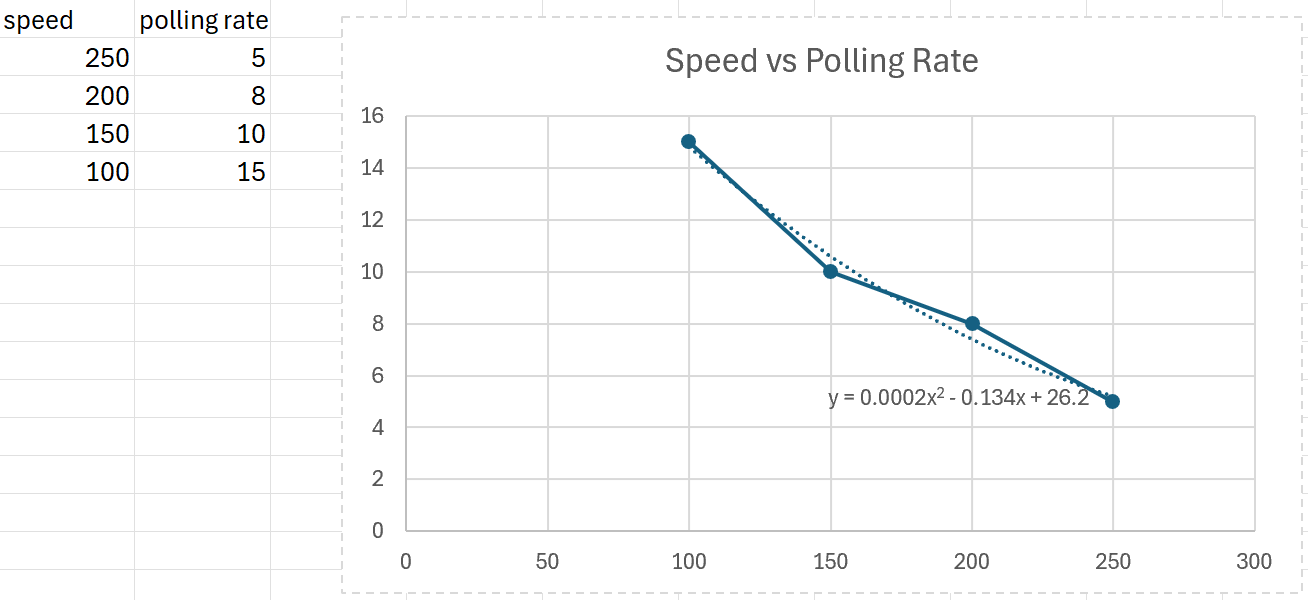
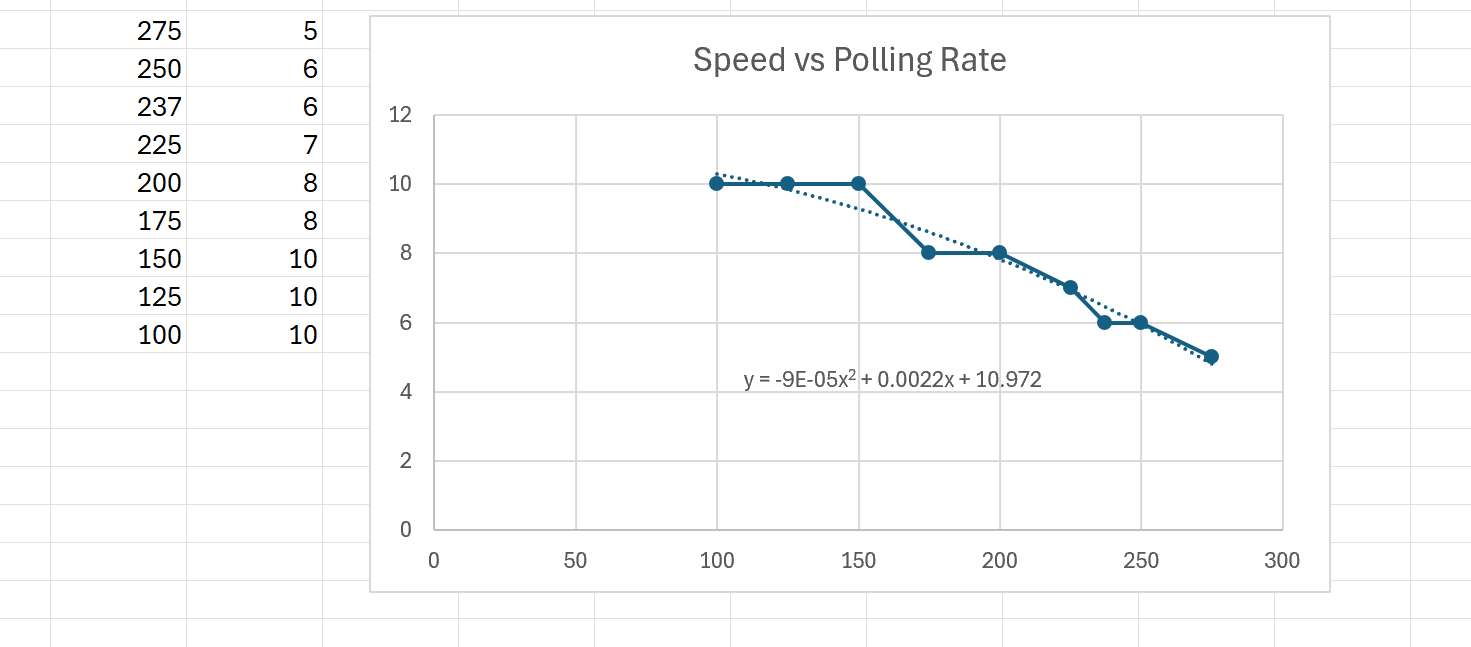
low level code section

diff --git a/project2.html b/project2.html
@@ -15,13 +15,15 @@
             <h1>Differential Swerve Drive Module</h1>
             <h2 class="subtitle">2024 | In Progress</h2>
 
-            <img src="project2/module.png" width="100%">
+            <img src="project2/module.jpg" width="100%">
 
             <h2>How it works:</h2>
             <p>A swerve module is a wheel that has two axes of rotation instead of one, meaning the wheel can spin forward and backward but can also be individually steered.</p>
             <p>A differential swerve drive utilizes two motors and cleverly arranged gears to achieve this as shown below:</p>
-
-            <img src="https://www.chiefdelphi.com/uploads/default/original/3X/0/7/07f31e8adc26e0034801757fb726223bc6bcf42a.gif" width="100%">
+            <p>If the two motors spin at the same speed in opposite directions, the wheel will spin like normal</p>
+            <p>If the motors spin at the same speed in the same direction, the entire wheel will steer</p>
+            <img src="project2/drive.gif" width="40%" display="inline-block">
+            <img src="project2/rotation.gif" width="40%" display="inline-block">
             <!-- <img src="project2/encoderphase.jpg" width="100%"> -->
 
             <h2>The code:</h2>
@@ -33,6 +35,23 @@
             <img src="project2/pidflowchart.png" width="100%">
             <p>The speed is controlled with a PID feedback loop, which works by finding the error term (the distance away from the setpoint) as a function of time, the derivative of the error term, and the integral of the error term. In this case our setpoint would be a certain RPM:</p>
             <img src="project2/pidimplementationflowchart.png" width="100%">
+            <p>Using this structure, it was quite straightforward to program a simple position PID controller. The complexity came in when I tried to implement a speed controller.</p>
+
+            <h3>Programming a speed controller</h3>
+            <p>Programming a speed controller consisted of using the same PID loop described above, but instead using (target speed - current speed) as our e(t). The problem came when calculating the current speed, which was found using the formula:</p>
+            <p>(current encoder count - previous encoder count)/elapsed time.</p>
+            <img src="project2/calculatespeed.png" width="80%">
+            <p>The problem was that the clock cycles ran faster than our encoder ticks, especially at low speed, meaning the current speed would read as 0 and the PID would overcompensate. This would lead to shaky movement patterns, which can be observed in this graph:</p>
+            <img src="project2/zeropollrate.png" width="80%">
+            <p>This problem could be solved by polling for the speed every few cycles, instead of every cycle. Implemented as follows</p>
+            <img src="project2/pollingrate.png" width="80%">
+            <p>The following results were found with a poll rate of 30, meaning that the speed was calculated every 30 clock cycles</p>
+            <img src="project2/highpollrate.png" width="80%">
+            <p>The problem with polling every few cycles is apparent: the loop is slow to react and the adjustments are blocky. This presented a new challenge of finding the lowest possible poll rate so that our PID curves would be smooth, but not low enough that our PID loop would report false zeroes. Additionally, I observed that different speeds had different optimal poll rates. So I came up with the solution of having a dynamic poll rate.</p>
+            <p>With this idea, I used a few test values to construct an equation relating speed to poll rate.</p>
+            <img src="project2/pollratevsspeed.png" width="80%">
+            <p>Using this equation presented a new problem, as the microcontroller would have to compute a long equation every clock cycle, which slowed it down greatly, and since I eventually wanted the target speed to dynamically change with user input, I created a lookup table with ~400 entries so that polling rate values could be retrieved with O(1) time complexity</p>
+            <img src="project2/lookuptable.png" width="80%">
         </div>
     </div>
 </body>
